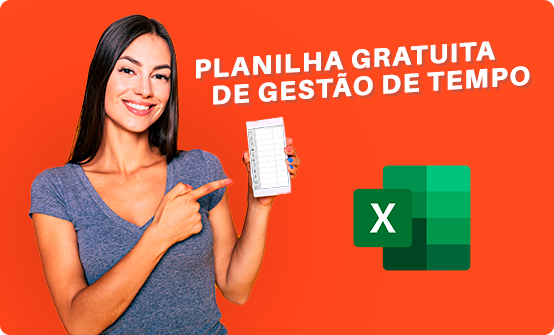
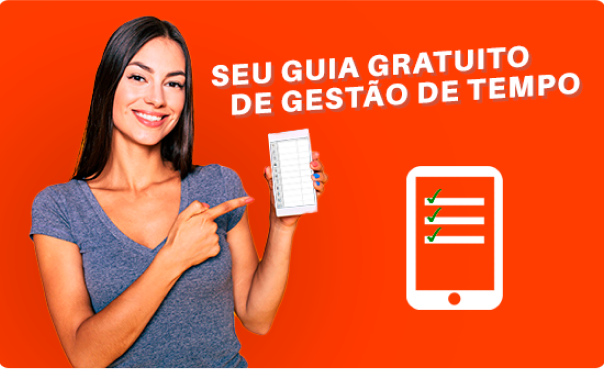
nova landing page com cores diferentes e pequenas mudanças nos textos e etc

diff --git a/index.html b/index.html
@@ -6,7 +6,7 @@
     <link rel="shortcut icon" href="images/favicon.ico" type="image/x-icon">
     <link rel="icon" href="favicon.ico" type="image/x-icon">
 
-    <meta name="viewport" content="width=600; user-scalable=0;">
+    <meta name="viewport" content="width=600, user-scalable=0">
     <meta http-equiv="Content-Language" content="pt-br">
 
       <script>(function(w,d,s,l,i){w[l]=w[l]||[];w[l].push({'gtm.start':
@@ -24,8 +24,6 @@
 
   <body>
 
-    <br>
-    <br>
 
     <!-- Google Tag Manager (noscript) -->
     <noscript><iframe src="https://www.googletagmanager.com/ns.html?id=GTM-T2HX7TN"
@@ -37,7 +35,7 @@
       <h1 class='header'>Você sente que aproveita mal o seu tempo?</h1>
     </div>
 
-    <div class='container' id='form'><br><br><br>
+    <div class='container' id='form'>
 
       <div class="row">
 
@@ -50,7 +48,7 @@
             <br>
             <br>
 
-            <p class='nefacil'>Não é fácil e nós sabemos disso. Por isso, preparamos esse <spam class='gdo'>Guia de Organização</spam> Diária para te ajudar a otimizar o seu dia a dia.</p>
+            <p class='nefacil'>Não é fácil e nós sabemos disso. Por isso, preparamos esse Guia de Organização Diário para te ajudar a otimizar o seu dia a dia.</p>
             
             <ul>
               <li class='listamais'><p class='listmais'>MAIS PRODUTIVIDADE: Esse Guia mostra a você como fazer mais com menos, apenas organizando melhor sua rotina.</p></li>
@@ -65,13 +63,13 @@
 
             <div class='container' id='rc'>
 
-              <br>
-
-              <p class='preencha'>Prepare-se para mudar!<br>Nós vamos te mostrar como!</p><br>
+              <div id="textos-form">                
+              <p class='preencha' id="texto-form-1">Prepare-se para mudar?<br>Nós vamos te mostrar como.</p><br>
+              <p id="texto-form-2">Preencha o formulário para receber o guia.</p>
+              </div>
 
               <div class='nomeeemail'>
                 <form method="POST" action="https://smtl.gama.academy/leads/1ccccd80-25e3-11eb-bf8d-0d63c80760d2">
-                  <label for="name">Nome:</label><br>
                   <input
                     class='namenemail'
                     name="name"
@@ -79,18 +77,18 @@
                     type="text"
                     pattern="^\D{2,}\s[\D\s]{2,}$"
                     title="Digite seu nome completo"
+                    placeholder=" Digite seu nome e sobrenome"
                     required/>
 
                   <br>
                   <br>
-
-                  <label for="email">Email:</label><br>
 
                   <input
                     class='namenemail'
                     name="email"
                     id="email"
                     type="email"
+                    placeholder=" Email"
                     required/>
 
                   <br>
@@ -101,7 +99,7 @@
                   <div class="submit">
 
                     <input name="redirectTo" type="hidden" value="https://novamente.netlify.app/agradecimento" />
-                    <input type="submit" class="btn btn-primary btn-lg" id='button' value="RECEBA SUA PLANILHA AGORA" />
+                    <input type="submit" class="btn btn-primary btn-lg" id='button' value="BAIXAR GUIA AGORA" />
                     
                   </div>
 
@@ -111,15 +109,13 @@
 
               <br>
 
-              <p class = 'escolha'>ESCOLHA SUA REDE SOCIAL FAVORITA E COMPARTILHE!</p>
-
-              <br>
+              <p class = 'escolha'>ESCOLHA SUA REDE SOCIAL FAVORITA <br> E COMPARTILHE!</p>
 
               <div class='container2' id='rc'>
-                <a href="https://telegram.me/share/url?url=https://novamente.netlify.app/&text=NovaMente"><img src="images/Vector-3.png" class="sharebuttons" alt="Logo do telegram na cor branca em cima de fundo verde."></a>
-                <a href="https://www.facebook.com/sharer/sharer.php?u=https://novamente.netlify.app"><img src="images/Vector-1.png" class="sharebuttons2" alt="Logo do facebook na cor branca em cima de fundo verde."></a>
-                <a href="whatsapp://send?text=https://novamente.netlify.app"><img src="images/Vector-2.png" class="sharebuttons2" alt="Logo do whatsapp na cor branca em cima de fundo verde."></a>
-                <a href="https://twitter.com/share?url=https://novamente.netlify.app/&text=NovaMente"><img src="images/vector-5.png" class="sharebuttons3" alt="Logo do twitter na cor branca em cima de fundo verde."></a>
+                <a href="https://telegram.me/share/url?url=https://novamente.netlify.app/&text=NovaMente"><img id="telegram-logo" src="images/Vector-3.png" class="sharebuttons" alt="Logo do telegram na cor branca em cima de fundo verde."></a>
+                <a href="https://www.facebook.com/sharer/sharer.php?u=https://novamente.netlify.app"><img id="facebook-logo" src="images/Vector-1.png" class="sharebuttons2" alt="Logo do facebook na cor branca em cima de fundo verde."></a>
+                <a href="whatsapp://send?text=https://novamente.netlify.app"><img id="whatsapp-logo" src="images/Vector-2.png" class="sharebuttons2" alt="Logo do whatsapp na cor branca em cima de fundo verde."></a>
+                <a href="https://twitter.com/share?url=https://novamente.netlify.app/&text=NovaMente"><img id="twitter-logo" src="images/vector-5.png" class="sharebuttons3" alt="Logo do twitter na cor branca em cima de fundo verde."></a>
               </div>
 
             </div>

diff --git a/style.css b/style.css
@@ -11,7 +11,7 @@ html, body {
 }
 
 body{
-  background: #7cdbc0;
+  background: #ffffff;
   padding:5px;
   margin-right:20px;
 }
@@ -47,6 +47,7 @@ body{
   margin: 50 100 0 100;
   max-width: 1140px;
   width: 100%;
+  padding-top: 10px;
   padding-right: 15px;
   padding-left: 15px;
   margin-right: auto;
@@ -55,15 +56,23 @@ body{
 }
 
 .header{
-  color: white;
-  font-weight: bolder;
+  font-size: 3.2rem;
+  color: #1f4740;
+  font-weight: 900;
   text-align: center;
   margin-left: 10;
 }
 
 #form{
+  display: table;
+  padding-top: 20px;
   text-align: center;
   color:white;
+}
+
+#nome {
+  display: table-cell;
+  width: 100%;
 }
 
 .row {
@@ -78,19 +87,34 @@ body{
   flex: 50%;
 }
 
+#textos-form {
+  padding-bottom: 20px;
+}
+
+#texto-form-1 {
+  margin: 0px;
+  text-align: left;
+}
+
+#texto-form-2 {
+  font-size: 23.4px;
+  text-align: left;
+}
+
 #rc.container{
-  background-color: #00a778;
+  background-color: #084a37;
   border-radius: 10px;
   height: 500px;
   width: 400px;
   margin:auto;
+  padding: 30px;
   max-width: 80%;
   min-width: 540px;
   margin-left: 10px;
 }
 
 #rc.container2{
-  background-color: #00a778;
+  background-color: #084a37;
   border-radius: 10px;
   height: 100px;
   width: 400px;
@@ -110,7 +134,7 @@ body{
 }
 
 .escolha{
-  color: white;
+  color: #1f4740;
   font-weight: bold;
   text-align: center;
   font-size:20px;
@@ -120,17 +144,26 @@ body{
   text-align: center;
 }
 input{
-  width: 300px;
+  width: 100%s;
 }
 
 #button{
   border-radius: 10px;
-  background-color: #ff5a00;
-  border-color: #ff5a00;
+  background-color: #e83f0e;
+  border: none;
   height: 80px;
   width: 360px;
   font-weight: bold;
   max-width: 80%;
+}
+
+#button:hover {
+  background-color: #cc3a0d;
+}
+
+#button:active {
+  background-color: #cc3a0d;
+  top: 2px;
 }
 
 #share{
@@ -151,9 +184,9 @@ input{
 
 .namenemail{
   border-radius: 10px;
-  border-color: #00a778;
+  border: none;
   height: 40px;
-  width: 370px;
+  width: 100%;
   max-width: 80%;
   margin-bottom: 10px;
 }
@@ -162,6 +195,7 @@ input{
   text-align: justify;
   font-weight: bolder;
   font-size: 24px;
+  color: #1f4740;
 }
 
 .iframe{
@@ -174,5 +208,6 @@ input{
 .listamais{
   list-style-image: url('images/icon.png');
   text-align: justify;
-  font-size: 18.9px;
+  font-size: 20px;
+  color: #1f4740;
 }
